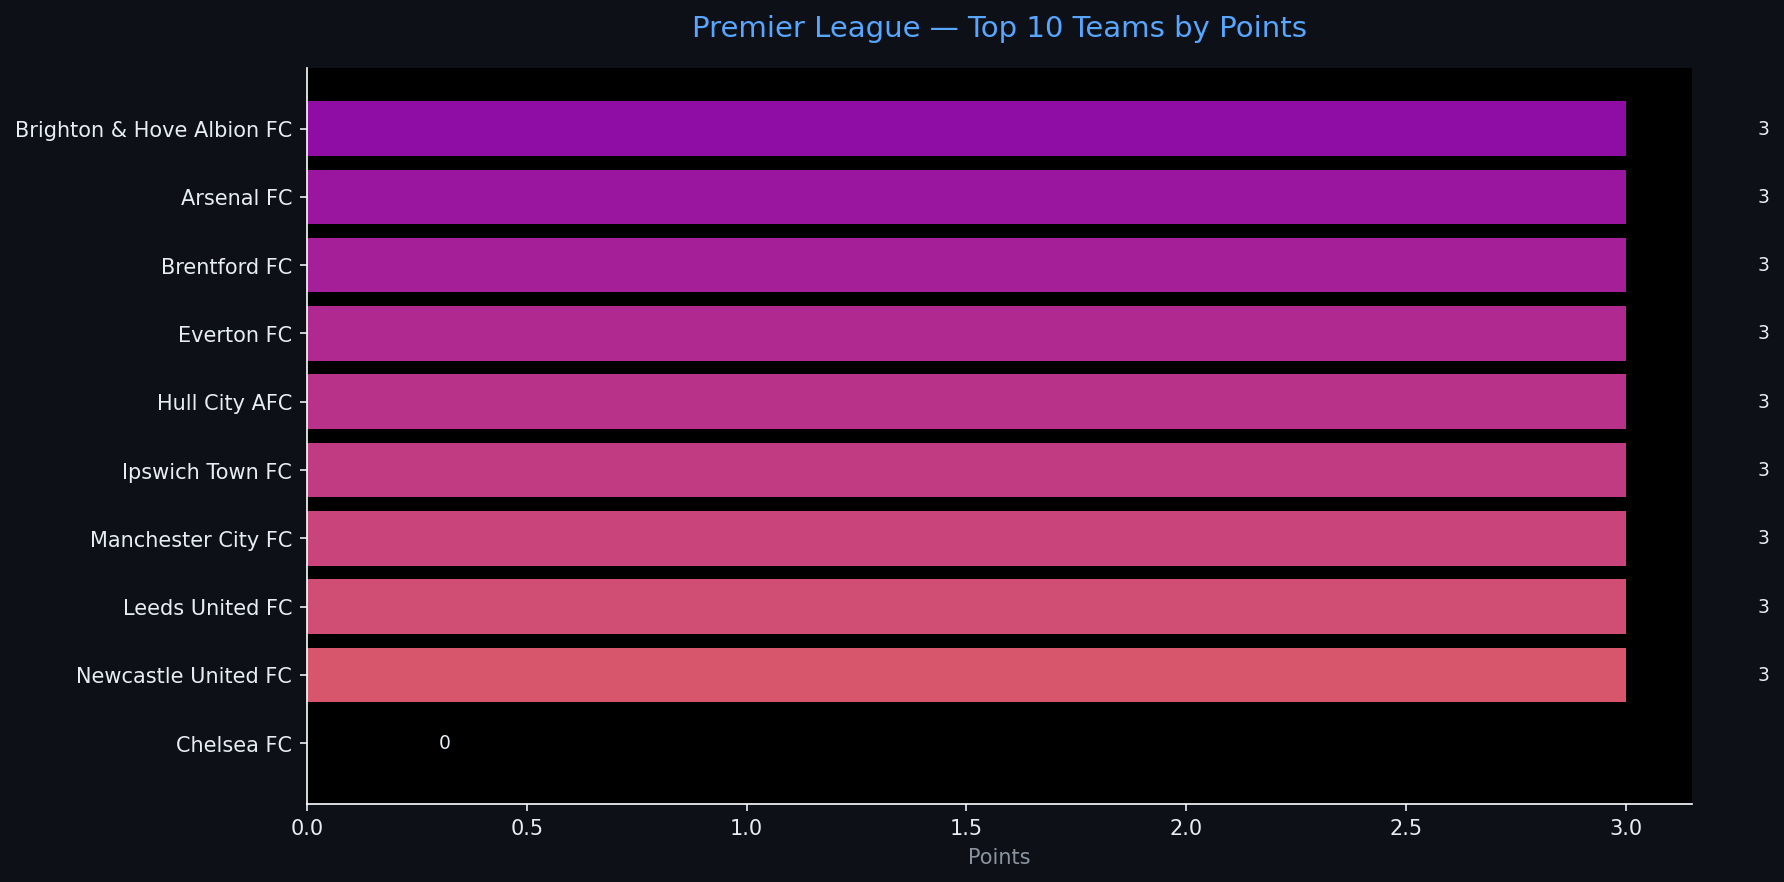
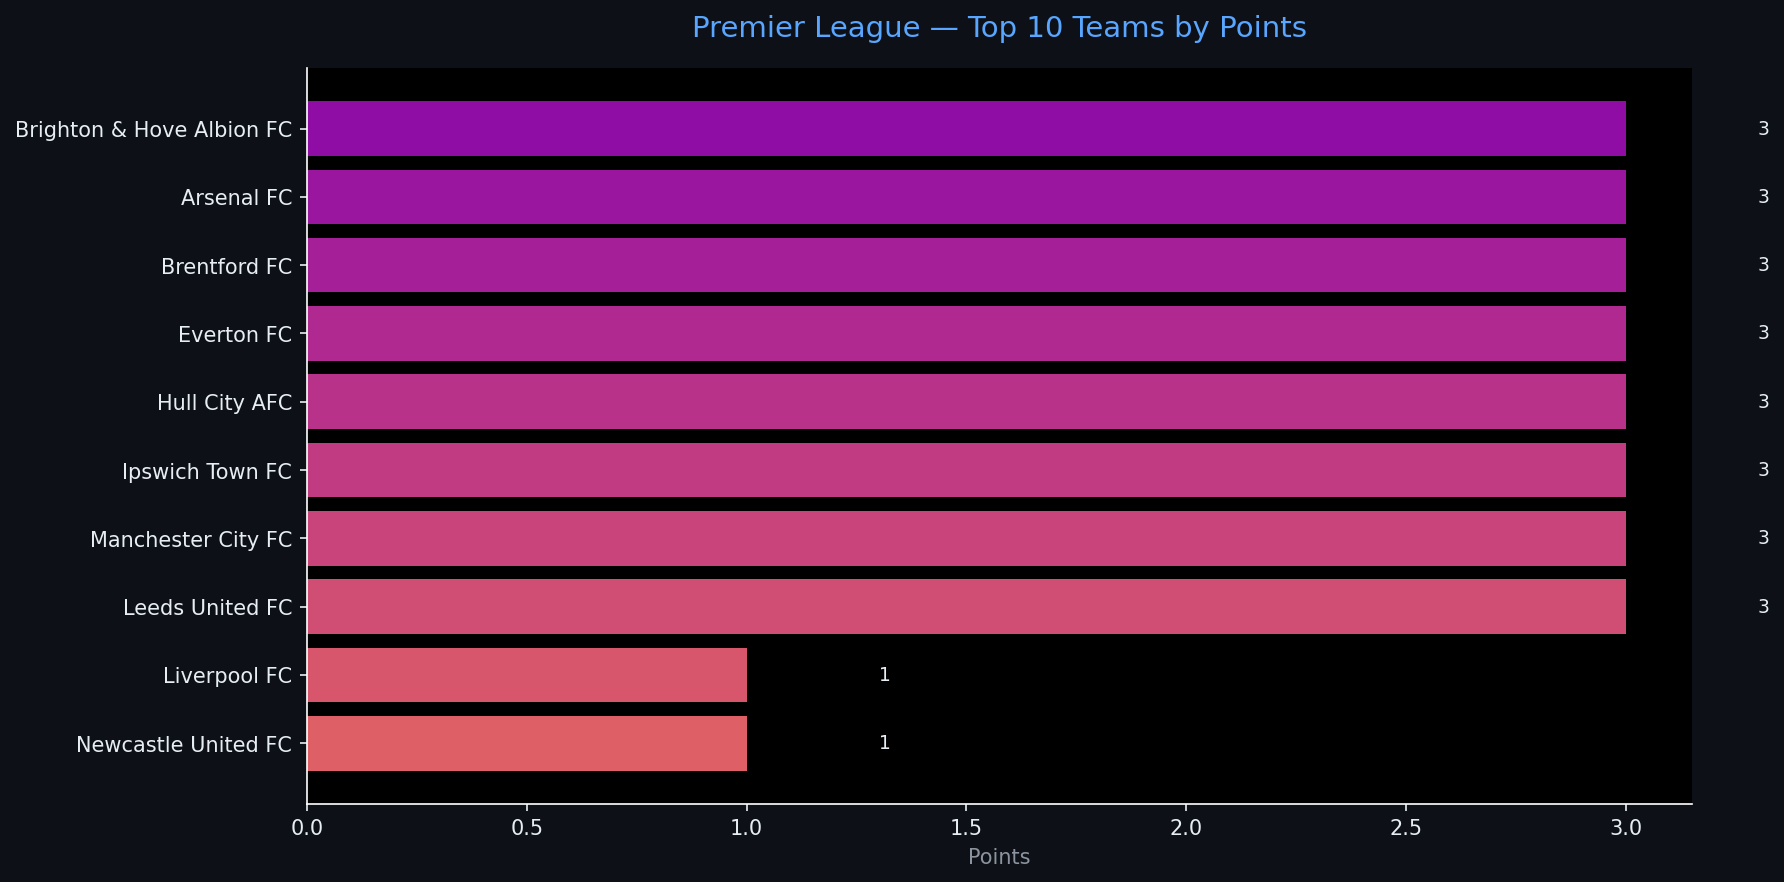
Automated ETL data update: 2026-08-23 18:19

Changed region(s): [[0.0308, 0.7347, 0.9249, 0.8878], [0.0617, 0.7347, 0.1541, 0.7959]]

diff --git a/reports/pipeline_report.html b/reports/pipeline_report.html
@@ -4,7 +4,7 @@
 <head>
     <meta charset="UTF-8">
     <meta name="viewport" content="width=device-width, initial-scale=1.0">
-    <title>Sports Data Pipeline Report — 2026-08-23 16:16</title>
+    <title>Sports Data Pipeline Report — 2026-08-23 18:19</title>
     <style>
         body { font-family: 'Segoe UI', sans-serif; background: #0d1117; color: #e6edf3; margin: 0; padding: 2rem; }
         h1   { color: #58a6ff; border-bottom: 1px solid #30363d; padding-bottom: 0.5rem; }
@@ -20,7 +20,7 @@
 </head>
 <body>
     <h1>⚽ Sports Data Pipeline — Automated Report</h1>
-    <p class="meta">Generated: 2026-08-23 16:16 UTC &nbsp;|&nbsp; Sport: <strong>football</strong> &nbsp;|&nbsp; Rows: <strong>20</strong></p>
+    <p class="meta">Generated: 2026-08-23 18:19 UTC &nbsp;|&nbsp; Sport: <strong>football</strong> &nbsp;|&nbsp; Rows: <strong>20</strong></p>
     <span class="badge">Pipeline v1.0.0</span>
     <h2>📊 Data Table</h2>
     <table class="dataframe data-table">
@@ -163,22 +163,37 @@
       <td>NaN</td>
     </tr>
     <tr>
-      <td>8</td>
-      <td>Newcastle United FC</td>
+      <td>9</td>
+      <td>Liverpool FC</td>
       <td>1</td>
-      <td>3</td>
       <td>1</td>
-      <td>0</td>
       <td>0</td>
       <td>1</td>
       <td>0</td>
+      <td>2</td>
+      <td>2</td>
+      <td>0.000</td>
       <td>1.000</td>
-      <td>3.000</td>
-      <td>1.000</td>
+      <td>0.500</td>
       <td>NaN</td>
     </tr>
     <tr>
-      <td>10</td>
+      <td>9</td>
+      <td>Newcastle United FC</td>
+      <td>1</td>
+      <td>1</td>
+      <td>0</td>
+      <td>1</td>
+      <td>0</td>
+      <td>2</td>
+      <td>2</td>
+      <td>0.000</td>
+      <td>1.000</td>
+      <td>0.500</td>
+      <td>NaN</td>
+    </tr>
+    <tr>
+      <td>11</td>
       <td>Chelsea FC</td>
       <td>0</td>
       <td>0</td>
@@ -193,7 +208,7 @@
       <td>NaN</td>
     </tr>
     <tr>
-      <td>10</td>
+      <td>11</td>
       <td>Fulham FC</td>
       <td>0</td>
       <td>0</td>
@@ -208,7 +223,7 @@
       <td>NaN</td>
     </tr>
     <tr>
-      <td>12</td>
+      <td>13</td>
       <td>AFC Bournemouth</td>
       <td>1</td>
       <td>0</td>
@@ -223,7 +238,7 @@
       <td>NaN</td>
     </tr>
     <tr>
-      <td>12</td>
+      <td>13</td>
       <td>Sunderland AFC</td>
       <td>1</td>
       <td>0</td>
@@ -238,22 +253,7 @@
       <td>NaN</td>
     </tr>
     <tr>
-      <td>14</td>
-      <td>Liverpool FC</td>
-      <td>1</td>
-      <td>0</td>
-      <td>0</td>
-      <td>0</td>
-      <td>1</td>
-      <td>0</td>
-      <td>1</td>
-      <td>0.000</td>
-      <td>0.000</td>
-      <td>0.000</td>
-      <td>NaN</td>
-    </tr>
-    <tr>
-      <td>14</td>
+      <td>15</td>
       <td>Nottingham Forest FC</td>
       <td>1</td>
       <td>0</td>
@@ -362,7 +362,7 @@
         
         <tr><td>Null Values</td><td>98</td></tr>
         
-        <tr><td>Run Timestamp (UTC)</td><td>2026-08-23T16:16:44.078493</td></tr>
+        <tr><td>Run Timestamp (UTC)</td><td>2026-08-23T18:19:07.999882</td></tr>
         
         <tr><td>ML Features Ready</td><td>False</td></tr>
         
